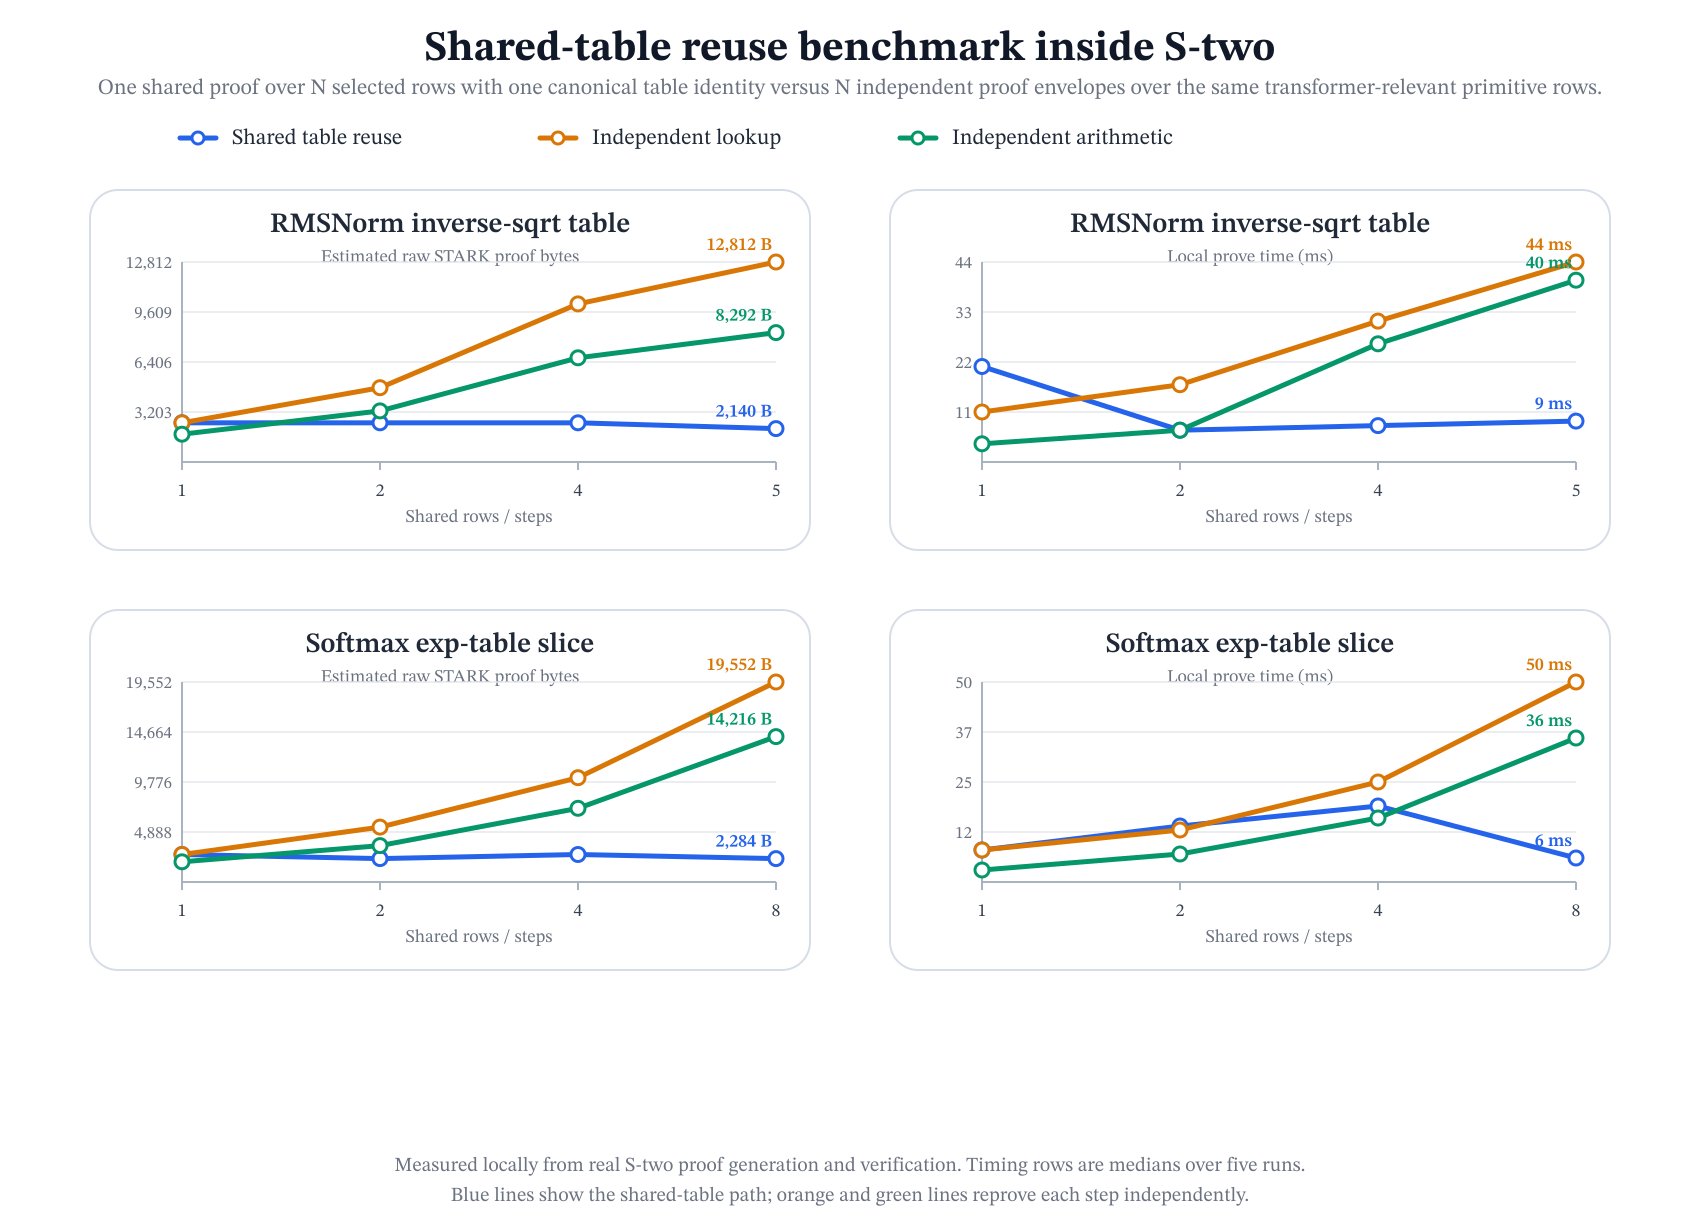
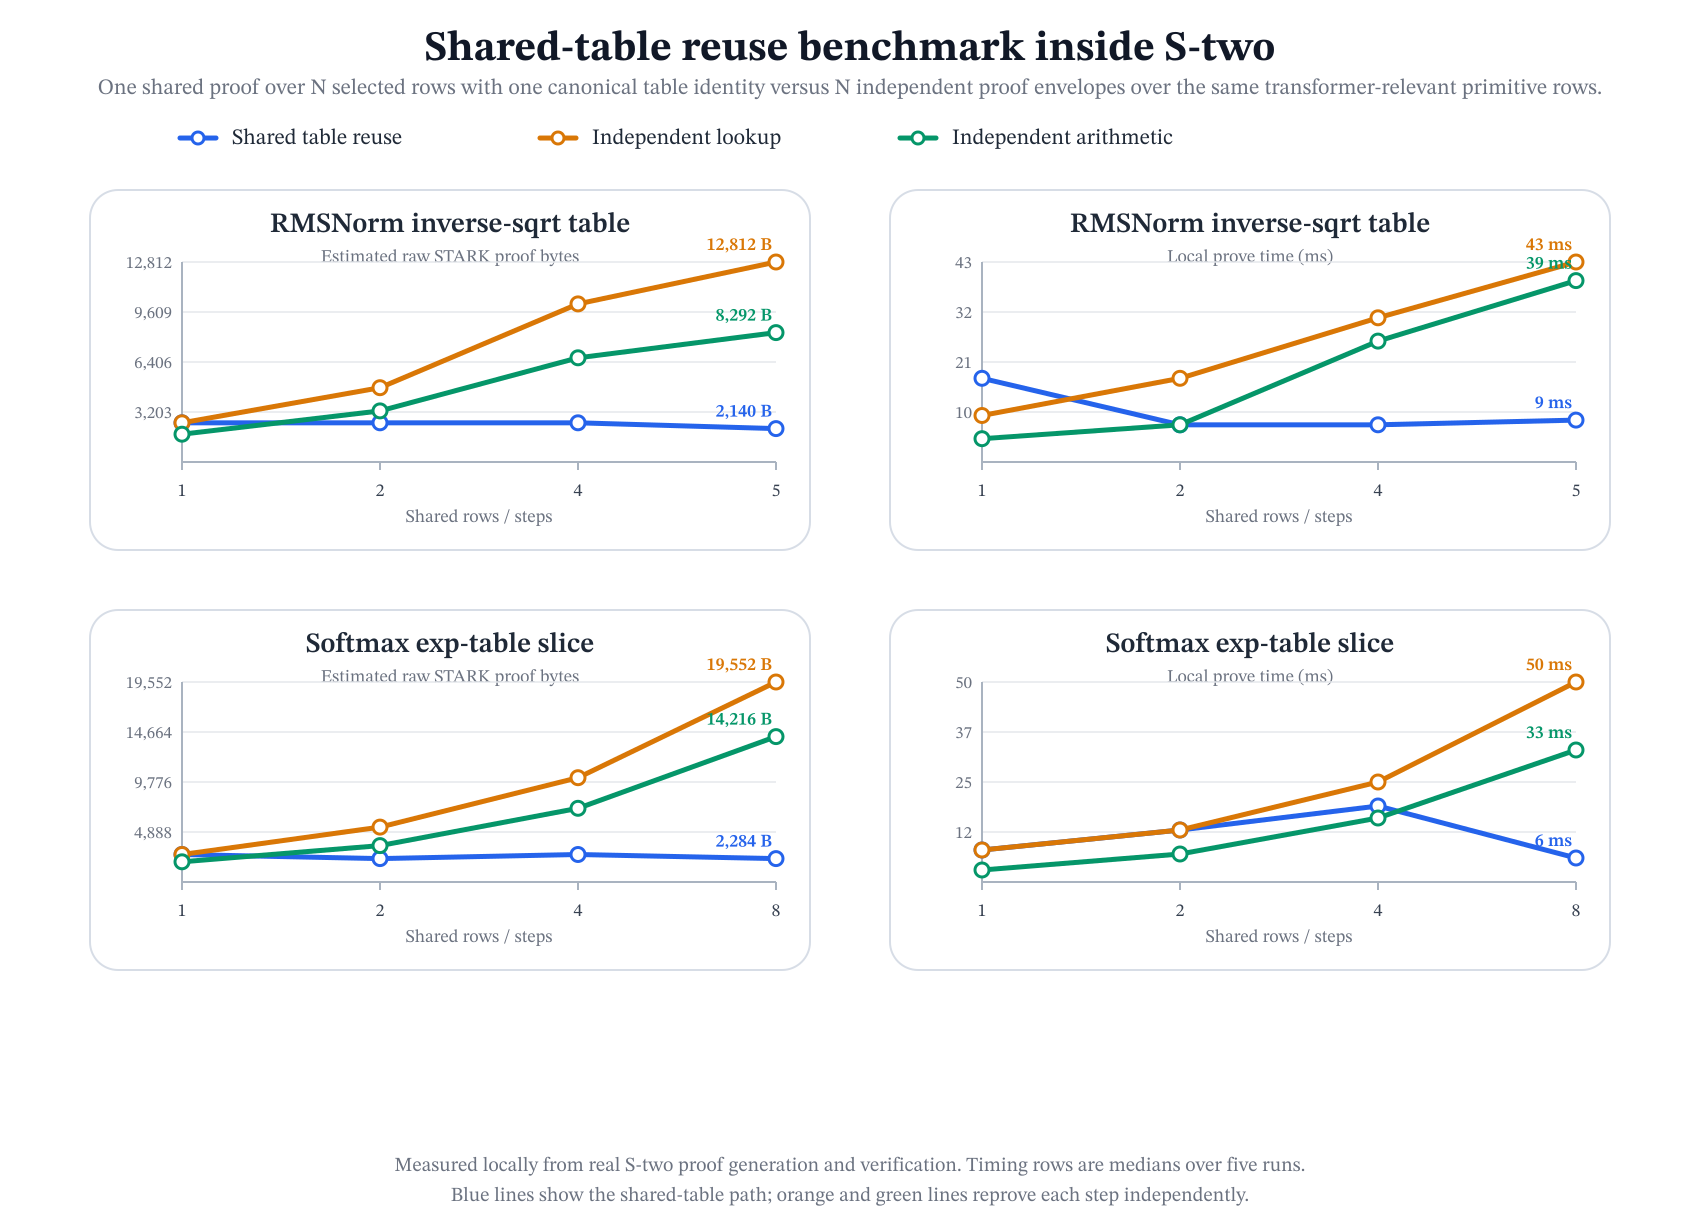
split fail-closed raster handling

diff --git a/scripts/paper/generate_stwo_shared_table_reuse_figure.py b/scripts/paper/generate_stwo_shared_table_reuse_figure.py
@@ -322,7 +322,9 @@ def render_svg(rows: list[dict[str, str]]) -> str:
 '''
 
 
-def write_optional_rasters(svg_path: Path, png_path: Path, pdf_path: Path) -> None:
+def write_optional_rasters(
+    svg_path: Path, png_path: Path, pdf_path: Path, *, fail_closed: bool
+) -> None:
     png_path.parent.mkdir(parents=True, exist_ok=True)
     pdf_path.parent.mkdir(parents=True, exist_ok=True)
 
@@ -336,7 +338,8 @@ def write_optional_rasters(svg_path: Path, png_path: Path, pdf_path: Path) -> No
         )
     except FileNotFoundError:
         tmp_png.unlink(missing_ok=True)
-        png_path.unlink(missing_ok=True)
+        if fail_closed:
+            png_path.unlink(missing_ok=True)
         print(f"skipped {png_path} (rsvg-convert not found)")
         rsvg = None
     if rsvg is not None and rsvg.returncode == 0:
@@ -344,7 +347,8 @@ def write_optional_rasters(svg_path: Path, png_path: Path, pdf_path: Path) -> No
         print(f"wrote {png_path}")
     elif rsvg is not None:
         tmp_png.unlink(missing_ok=True)
-        png_path.unlink(missing_ok=True)
+        if fail_closed:
+            png_path.unlink(missing_ok=True)
         print(f"skipped {png_path} (rsvg-convert png failed: {rsvg.stderr.strip()})")
 
     tmp_pdf = pdf_path.with_suffix(pdf_path.suffix + ".tmp")
@@ -357,7 +361,8 @@ def write_optional_rasters(svg_path: Path, png_path: Path, pdf_path: Path) -> No
         )
     except FileNotFoundError:
         tmp_pdf.unlink(missing_ok=True)
-        pdf_path.unlink(missing_ok=True)
+        if fail_closed:
+            pdf_path.unlink(missing_ok=True)
         print(f"skipped {pdf_path} (rsvg-convert not found)")
         rsvg_pdf = None
     if rsvg_pdf is not None and rsvg_pdf.returncode == 0:
@@ -365,7 +370,8 @@ def write_optional_rasters(svg_path: Path, png_path: Path, pdf_path: Path) -> No
         print(f"wrote {pdf_path}")
     elif rsvg_pdf is not None:
         tmp_pdf.unlink(missing_ok=True)
-        pdf_path.unlink(missing_ok=True)
+        if fail_closed:
+            pdf_path.unlink(missing_ok=True)
         print(f"skipped {pdf_path} (rsvg-convert pdf failed: {rsvg_pdf.stderr.strip()})")
 
 
@@ -379,6 +385,11 @@ def main() -> None:
     )
     parser.add_argument("--output-png", type=Path, default=None)
     parser.add_argument("--output-pdf", type=Path, default=None)
+    parser.add_argument(
+        "--fail-closed-rasters",
+        action="store_true",
+        help="delete target PNG/PDF outputs if raster generation fails",
+    )
     args = parser.parse_args()
 
     rows = read_rows(args.input_tsv)
@@ -393,7 +404,12 @@ def main() -> None:
     print(f"wrote {svg_path}")
     png_path = args.output_png or svg_path.with_suffix(".png")
     pdf_path = args.output_pdf or svg_path.with_suffix(".pdf")
-    write_optional_rasters(svg_path, png_path, pdf_path)
+    write_optional_rasters(
+        svg_path,
+        png_path,
+        pdf_path,
+        fail_closed=args.fail_closed_rasters,
+    )
 
 
 if __name__ == "__main__":

diff --git a/docs/paper/stark-transformer-alignment-2026.md b/docs/paper/stark-transformer-alignment-2026.md
@@ -326,11 +326,11 @@ branch and records the median of five repeated local runs; the millisecond value
 host-dependent representative timings rather than portable wall-clock guarantees. Here
 the qualitative picture changes. For RMSNorm
 at five shared rows, the shared-table path records `2,140` raw proof bytes and `9 ms`
-of proving, versus `12,812` bytes and `44 ms` for five independent lookup envelopes and
-`8,292` bytes and `40 ms` for five independent selector-arithmetic proofs. For the
+of proving, versus `12,812` bytes and `43 ms` for five independent lookup envelopes and
+`8,292` bytes and `39 ms` for five independent selector-arithmetic proofs. For the
 softmax exp-table slice at eight shared rows, the shared-table path records `2,284`
 bytes and `6 ms`, versus `19,552` bytes and `50 ms` for independent lookup proofs and
-`14,216` bytes and `36 ms` for independent selector-arithmetic proofs. This is still
+`14,216` bytes and `33 ms` for independent selector-arithmetic proofs. This is still
 not a full attention-kernel or recursive-compression result, but it is the reuse-aware
 regime the symbolic model was trying to isolate: once one canonical table identity is
 made verifier-visible across repeated steps, proof growth can flatten sharply instead of
